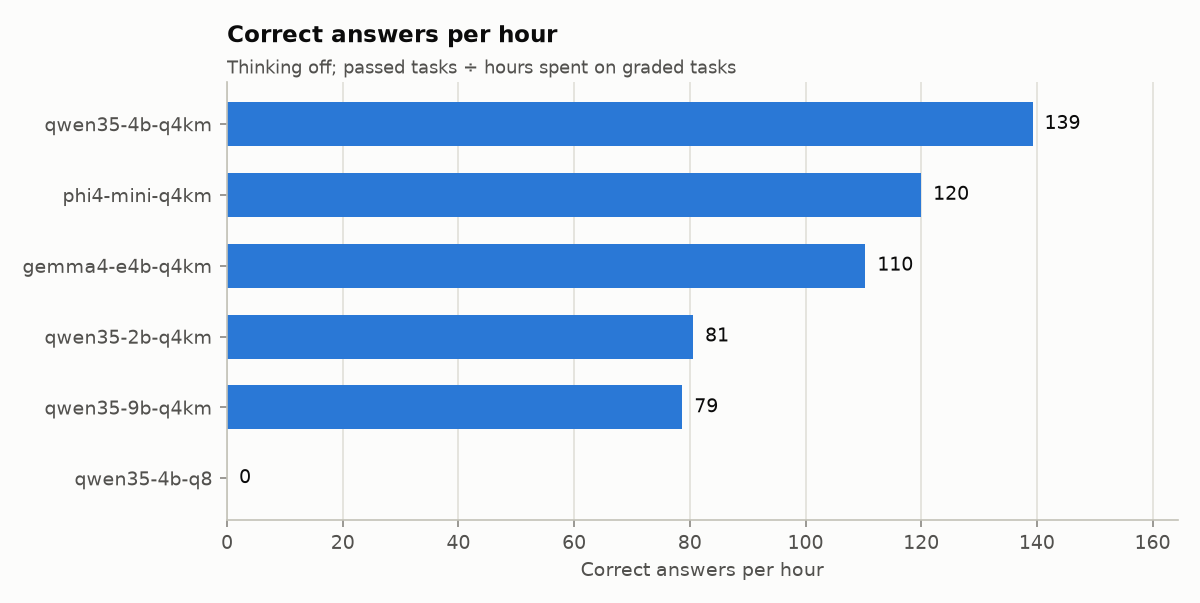
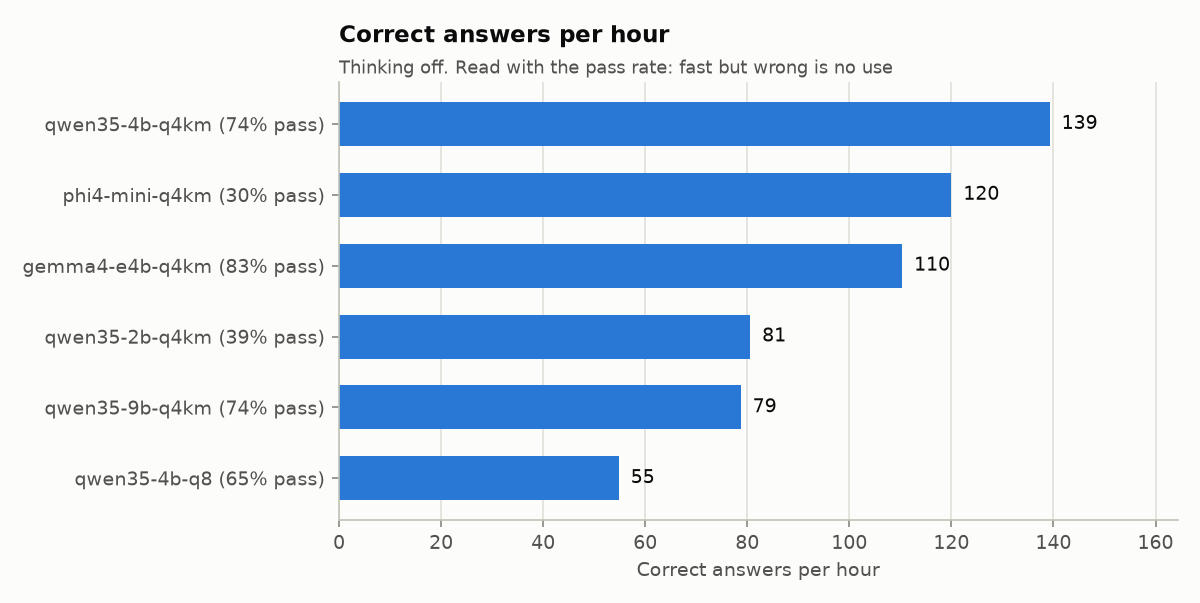
Finish harness: Q8_0 run, needle and bench tested, final report and verdict
- Q8_0 15/23 (below Q4 17/23: one-repeat noise)
- needle: 4K and 16K found; 32K crashed on Vulkan (ErrorDeviceLost);
  failed requests now stored as found: null, not as a miss
- bench: batch-size hypothesis rejected (smooth pp48-pp64 curve)
- report: correct/hour chart labels include pass rate
- lab file v26: provisional laptop verdict in 9.8

diff --git a/src/lab/report.py b/src/lab/report.py
@@ -213,8 +213,9 @@ def _needle_section() -> list[str]:
            "| Machine | Config | Prompt tokens | Depth | Found | Prefill s | Prefill tok/s | Answer |",
            "|---|---|---|---|---|---|---|---|"]
     for r in rows:
-        out.append(f"| {r['machine']} | `{r['config']}` | {r['prompt_tokens']} | {r['depth']:.2f} "
-                   f"| {'yes' if r['found'] else '**no**'} | {_f(r['prefill_ms'] and r['prefill_ms'] / 1000, '.1f')} "
+        found = f"**error**: {r['error'][:60]}" if r.get("error") else "yes" if r["found"] else "**no**"
+        out.append(f"| {r['machine']} | `{r['config']}` | {r['prompt_tokens'] or '~' + str(r['target_tokens'])} "
+                   f"| {r['depth']:.2f} | {found} | {_f(r['prefill_ms'] and r['prefill_ms'] / 1000, '.1f')} "
                    f"| {_f(r['prefill_tok_s'], '.0f')} | `{r['answer'].strip()[:30]}` |")
     return out
 
@@ -246,8 +247,9 @@ def build_report() -> Path:
     off = [s for s in sums if not s.thinking]
     charts = []
     if off:
-        _hbar(CHART_DIR / "correct_per_hour.png", [s.label for s in off], [s.correct_per_hour for s in off],
-              "Correct answers per hour", "Thinking off; passed tasks ÷ hours spent on graded tasks",
+        _hbar(CHART_DIR / "correct_per_hour.png", [f"{s.label} ({s.pass_rate:.0%} pass)" for s in off],
+              [s.correct_per_hour for s in off], "Correct answers per hour",
+              "Thinking off. Read with the pass rate: fast but wrong is no use",
               "Correct answers per hour", lambda v: f"{v:.0f}")
         charts.append(("Correct answers per hour", "correct_per_hour.png"))
         by_time = sorted(off, key=lambda s: s.median("wall_s") or 0)

diff --git a/src/lab/needle.py b/src/lab/needle.py
@@ -76,7 +76,9 @@ def run_needle(cfg: RunConfig, machine: Machine, sizes: list[int], depths: list[
                 prompt = build_prompt(machine.base_url, size, depth)
                 res = client.chat(machine.base_url, prompt, thinking=False, sampling=cfg.sampling,
                                   max_tokens=64, timeout_s=cfg.request_timeout_s)
-                found = CODE.replace("-", "").lower() in res.answer.replace("-", "").replace(" ", "").lower()
+                # None = the request failed (e.g. GPU error): not the same as the model missing the fact
+                found = None if res.error else (
+                    CODE.replace("-", "").lower() in res.answer.replace("-", "").replace(" ", "").lower())
                 append_row({
                     "ts": datetime.now().astimezone().isoformat(timespec="seconds"),
                     "machine": machine.name, "config": cfg.name, "config_hash": cfg.config_hash,
@@ -85,7 +87,7 @@ def run_needle(cfg: RunConfig, machine: Machine, sizes: list[int], depths: list[
                     **res.to_dict(), "server": {**srv.info, "cmd": cmd},
                 }, NEEDLE_FILE)
                 print(f"   {size:>6} tokens (actual {res.prompt_tokens}), depth {depth:.2f}: "
-                      f"{'FOUND' if found else 'MISSED'}  prefill {_s(res.prefill_ms)}  "
+                      f"{'ERROR' if found is None else 'FOUND' if found else 'MISSED'}  prefill {_s(res.prefill_ms)}  "
                       f"({_f(res.prefill_tok_s)} tok/s)  answer {res.answer.strip()[:40]!r}"
                       + (f"  error {res.error}" if res.error else ""), flush=True)
 

diff --git a/src/lab/bench.py b/src/lab/bench.py
@@ -36,7 +36,7 @@ def run_bench(cfg: RunConfig, machine: Machine, pp: str, tg: str, depth: str, re
         test = json.loads(line)
         append_row({"ts": stamp, "machine": machine.name, "config": cfg.name,
                      "backend": cfg.backend.name, **test}, BENCH_FILE)
-        print(f"   {bench_test_name(test):<18} {test.get('avg_ts', 0):8.2f} ± {test.get('stddev_ts', 0):.2f} t/s",
+        print(f"   {bench_test_name(test):<18} {test.get('avg_ts', 0):8.2f} +/- {test.get('stddev_ts', 0):.2f} t/s",
               flush=True)
 
 

diff --git a/LOCAL_LLM_LAB.md b/LOCAL_LLM_LAB.md
@@ -1,7 +1,7 @@
 # Local LLM Lab: Master File
 
-> **Version:** 25 · **Last updated:** 2026-09-24 · **Owner:** Pratham
-> **Current machine:** Laptop (ASUS Zenbook 14) · **Current phase:** 4 (harness: milestones 1-2 built and run; 3-5 next)
+> **Version:** 26 · **Last updated:** 2026-09-25 · **Owner:** Pratham
+> **Current machine:** Laptop (ASUS Zenbook 14) · **Current phase:** 4 done (harness complete); 5 next (3 repeats per task)
 
 This one file holds everything: status, plan, commands, hardware facts, model choices, research notes, and the spec for the test harness. It is written so that a human **or** Claude Code can pick it up and continue with no other context.
 
@@ -56,15 +56,16 @@ You are continuing a learning project on running LLMs locally. Rules:
 - [x] Phase 3 part 1: thread sweeps (CPU and Vulkan) and prefill curves (see 9.4)
 - [x] Phase 3 part 2: size ladder incl. Gemma 4 E4B and Bonsai 27B v1, both engines (see 9.4)
 - [x] Phase 3 part 3: depth test (see 9.4). **Phase 3 complete**
-- [ ] **Phase 4: build the harness in Claude Code** (section 6, Phase 4; spec in section 7)
+- [x] **Phase 4: build the harness in Claude Code** (section 6, Phase 4; spec in section 7): all 5 milestones built and tested
   - [x] API probe: raw JSON of thinking off/on and streaming inspected; fields agreed (9.4a)
   - [x] Milestone 1: `tasks/tasks.yaml`, 24 tasks (Python, JS, SQL, a little C++); `lab selftest` passes
   - [x] Milestone 2: `uv run lab run` (resumable, `results/runs.jsonl`); thinking-off run done (9.4a)
   - [x] Verify the thinking-on path end to end (first attempt stopped: laptop low on memory; second, with apps closed: PASS, all fields correct; 9.4a)
   - [x] Full thinking-on set (8 tasks × 1): 7/8 in 36.4 min vs thinking off 5/8 in 2.3 min (9.4a)
   - [x] Milestone 3: `uv run lab report` (tested on real results)
-  - [ ] Milestone 4 `lab needle` and 5 `lab bench`: **built, not yet run** (GPU was busy). Test: `uv run lab needle configs\qwen35-4b-q4km-vulkan-nothink.yaml` and `uv run lab bench configs\qwen35-4b-q4km-vulkan-nothink.yaml --pp 48,50,51,52,56,64 --tg 0` (also answers the batch-size question in 9.4a)
-  - [x] Model comparison, 6 models, thinking off (9.4b); Qwen3.5-4B Q8_0 unfinished
+  - [x] Milestone 4 `lab needle`: tested at 4K / 16K / 32K (found / found / GPU crash; 9.6)
+  - [x] Milestone 5 `lab bench`: tested; answered the batch-size question (hypothesis rejected; 9.4a)
+  - [x] Model comparison, 7 configs, thinking off, 1 repeat (9.4b), incl. Qwen3.5-4B Q8_0
   - [ ] Pratham: read the task list, add or change tasks (section 8)
 - [x] `hf` downloads complete (9 files in `D:\Code\Inference\models`, sizes in 5.1). Fix that worked: Cloudflare WARP + exact-file-name script (5.2)
 - [x] LM Studio downloads: `google/gemma-4-e4b` (6.33 GB total) and `prism-ml/bonsai-27b` (4.73 GB total). Totals likely include vision/audio files; confirm file names, quant, and that Bonsai is the Qwen3.6-based v1 (see 5.2 command)
@@ -88,7 +89,7 @@ You are continuing a learning project on running LLMs locally. Rules:
 | 1 | LM Studio first tests | Done (Vulkan default, Think off default) |
 | 2 | llama.cpp first run | Done |
 | 3 | Speed tests (llama-bench) | Done |
-| 4 | Build test harness (Claude Code) | In progress (milestones 1-2 done) |
+| 4 | Build test harness (Claude Code) | Done (5 milestones; provisional verdict in 9.8) |
 | 5 | Quality tests | Not started |
 | 6 | Memory / context tests | Not started |
 | 7 | Bigger model vs more bits + laptop verdict | Not started |
@@ -940,7 +941,7 @@ Failures (all checked by hand: real model mistakes, not harness errors):
 Observations:
 - **Explaining a bug ≠ fixing it** (two cases above). Only running the code or query shows it; eyeballing the explanation would have marked both correct.
 - Short tasks are dominated by fixed costs: `if-*` tasks take 2-3 s, of which ~1.3 s is time to first token.
-- **Open question: Vulkan prefill vs exact batch size.** `math-pin-count` (55-token prompt) took 3.95 s to prefill (13.9 tok/s): the server split it 51 + 4 (checkpoint), and the **51-token batch alone took 2.7 s**, far off the Phase 3 curve (32 tokens 0.77 s, 64 tokens 0.64 s). Hypothesis: some non-power-of-two batch sizes hit a slow Vulkan path. Test: `llama-bench -m <4B Q4_K_M> -ngl 99 -t 5 -p 48,50,51,52,56,60,64 -n 0 -r 3` (Vulkan) and the same on CPU.
+- **Open question: Vulkan prefill vs exact batch size.** `math-pin-count` (55-token prompt) took 3.95 s to prefill (13.9 tok/s): the server split it 51 + 4 (checkpoint), and the **51-token batch alone took 2.7 s**, far off the Phase 3 curve (32 tokens 0.77 s, 64 tokens 0.64 s). Hypothesis: some non-power-of-two batch sizes hit a slow Vulkan path. ~~Test: `llama-bench … -p 48,50,51,52,56,60,64`~~ **Tested 2026-09-25 (`lab bench`, Vulkan, 3 repeats): hypothesis rejected.** pp48 81.2, pp50 82.1, **pp51 83.7 t/s (0.61 s)**, pp52 89.9, pp55 91.2, pp56 95.7, pp64 102.1: a smooth curve, no slow sizes. The 2.7 s in the server was a one-off stall.
 
 ### 9.4b Model comparison, thinking off, 24 tasks × 1 (2026-09-24 21:26-22:05, Vulkan)
 
@@ -951,11 +952,12 @@ Observations:
 | Qwen3.5-9B Q4_K_M | 17/23 (74%) | 79 | 18.9 | 9.1 | 5.97 | 512 MiB |
 | Qwen3.5-2B Q4_K_M | 9/23 (39%) | 81 | 7.1 | 26.8 | 1.86 | 192 MiB |
 | Phi-4-mini Q4_K_M (greedy) | 7/23 (30%) | 120 | 8.7 | 17.6 | 4.88 | **2,048 MiB** |
-| Qwen3.5-4B Q8_0 | stopped after 1 task (Pratham had to leave) | | | 10.7 | 5.45 | 512 MiB |
+| Qwen3.5-4B Q8_0 | 15/23 (65%) | 55 | 17.0 | 11.4 | 5.45 | 512 MiB |
 
 - KV per token confirmed for three designs: Qwen3.5 hybrid 32 KB, Phi-4-mini 128 KB (as predicted in section 4), Gemma 4 E4B ~2.5 KB (likely sliding-window attention; not yet confirmed from its log).
 - Phi-4-mini answers are coherent (not the Vulkan garbage bug); its failures are real logic errors. Its 120 correct/hour comes from speed, not accuracy: **judge pass rate first, then correct/hour.**
 - The 9B scored the same as the 4B at 1.5× the time: no gain on these tasks.
+- **Q8_0 scored lower than Q4_K_M (15 vs 17)**, which 8-bit should not do: it failed 3 tasks Q4 passed and passed 1 Q4 failed (all 4 failures checked: real errors, incl. `js-deep-merge` looping until the 4,096-token limit, 6 min). With 1 repeat, **±2-3 tasks is noise**; this is also why Gemma's 2-task lead is not yet proof. Q8 is also slower (11.4 vs 14.2 tok/s, 5.45 vs 3.69 GiB).
 
 **Provisional verdict (n = 1 repeat; Gemma's lead is only 2 tasks, so Phase 5's 3 repeats must confirm):**
 - **Default for coding: Gemma 4 E4B Q4_K_M, thinking off.**
@@ -963,7 +965,7 @@ Observations:
 - **Retry for a failed bug fix: Qwen3.5-4B, thinking on** (fixed 2 of 2 failed bug tasks, ~6 min each).
 - **Not recommended:** Phi-4-mini, Qwen3.5-2B, Qwen3.5-9B.
 
-To finish the Q8_0 run later (resumes, skips done tasks): `uv run lab run configs\qwen35-4b-q8-vulkan-nothink.yaml --repeats 1`
+Q8_0 finished 2026-09-25 (resumed after the stop; 23 remaining tasks).
 
 ### 9.5 Phase 5: quality (from `results/report.md`)
 | Config | Pass rate | Median time/task | Correct/hour | Notes |
@@ -987,7 +989,19 @@ Quality breaking point: ___
 | 4B Q4_K_M | 32768 | | | |
 | 4B Q4_K_M | 65536 | | | |
 
-Swap point (9B Q4_K_M): -c = ___ · Needle 4K/16K/32K: ___ / ___ / ___ · 16K prefill time: ___
+Swap point (9B Q4_K_M): -c = ___ · Needle 4K/16K/32K: **found / found / GPU crash** · 16K prefill time: **178 s**
+
+**Needle test 2026-09-25** (`lab needle`, Qwen3.5-4B Q4_K_M, Vulkan, `-c 33792`, KV 1,056 MiB, fact at depth 0.5):
+
+| Target | Actual prompt tokens | Found? | Prefill | Prefill tok/s |
+|---|---|---|---|---|
+| 4K | 4,042 | yes | 19.6 s | 206 |
+| 16K | 16,377 | yes | **178 s** | 92 |
+| 32K | 32,746 | **crash**: `vk::Device::getFenceStatus: ErrorDeviceLost` after 5 min 44 s, at ~22.5-24.5K tokens processed | – | – |
+
+- Prefill slows with depth: each 2,048-token slice took 5.6 s at the start, 23 s at 10K, 45-52 s at 20-22K (attention compares each new token with all earlier ones).
+- **Laptop limit on Vulkan: keep prompts under ~16K tokens** (16K already costs 3 min before the first word). Cause of the crash not confirmed: no Windows GPU-reset event (4101) was logged. Untested: the same on the CPU backend (no GPU watchdog, but ~5× slower prefill).
+- Fixed in the harness: a crashed request is now stored as `found: null` (error), not as a miss.
 
 ### 9.7 Phase 7: bigger vs more bits
 | Config | Size GB | Pass rate | Correct/hour | tg128 |
@@ -999,10 +1013,11 @@ Swap point (9B Q4_K_M): -c = ___ · Needle 4K/16K/32K: ___ / ___ / ___ · 16K pr
 | Gemma 4 E4B Q4_K_M | | | | |
 
 ### 9.8 Laptop verdict
-- Daily model: ___ (why: ___)
-- Quick-task model: ___
-- Thinking: on for ___, off for ___
-- Breaking points: speed ___ · quality ___ · memory ___
+**Provisional (2026-09-25, 1 repeat per task; Phase 5 must confirm):**
+- Daily model: **Gemma 4 E4B Q4_K_M, thinking off** (why: most correct, 19/23; same time per task as Qwen 4B; tiny KV cache, 40 MiB at 16K)
+- Quick-task / low-memory model: **Qwen3.5-4B Q4_K_M, thinking off** (17/23, most correct answers per hour, 3.7 GiB)
+- Thinking: **off by default; on only to retry a failed bug fix** (Qwen 4B fixed 2 of 2 failed bug tasks, ~6-10 min each)
+- Breaking points: speed **Bonsai 27B / 9B too slow for the gain** · quality **2B and Phi-4-mini too weak (≤ 39%)** · memory/context **~16K-token prompts on Vulkan (32K crashed)**
 
 ---
 
@@ -1191,3 +1206,4 @@ Claude/GPT also generate one token at a time (plus internal planning). Differenc
 | 2026-09-24 | Claude Code | v23: first thinking-on run stopped (laptop low on memory, nothing saved); rerun with apps closed verified the thinking path end to end (`math-pin-count`: PASS, 1,417 thinking tokens, first answer token at 105 s, 3.7× slower than thinking off); batch-size hypothesis weakened |
 | 2026-09-24 | Claude Code | v24: full thinking-on set (8 tasks × 1): 7/8 in 36.4 min vs thinking off 5/8 in 2.3 min → 12 vs 132 correct answers per hour; thinking fixed the two failed bug tasks at 6-10 min each |
 | 2026-09-24 | Claude Code | v25: milestones 3-5 built (`lab report` tested; `lab needle`, `lab bench` not yet run); 6-model comparison (9.4b): Gemma 4 E4B 19/23, Qwen 4B 17/23 (139 correct/h), 9B 17/23, 2B 9/23, Phi-4-mini 7/23; provisional verdict; Q8_0 run stopped early |
+| 2026-09-25 | Claude Code | v26: harness complete. Q8_0 finished (15/23: lower than Q4 → 1-repeat noise is ±2-3 tasks); `lab needle` tested (4K/16K found, 16K prefill 178 s, 32K Vulkan `ErrorDeviceLost`); `lab bench` tested (batch-size hypothesis rejected); needle errors now stored as `found: null`; report chart labels show pass rate; provisional laptop verdict in 9.8 |

diff --git a/results/report.md b/results/report.md
@@ -1,6 +1,6 @@
 # Harness report
 
-Generated 2026-09-24 22:03 from `runs.jsonl` (129 current runs; 24 tasks in `tasks.yaml`). Sorted by correct answers per hour.
+Generated 2026-09-25 13:24 from `runs.jsonl` (152 current runs; 24 tasks in `tasks.yaml`). Sorted by correct answers per hour.
 
 - **Correct answers per hour** = passed auto-graded runs ÷ hours of wall time spent on them.
 - Thinking-on configs run only the tasks marked `thinking: on/both`, so compare them with care.
@@ -15,8 +15,8 @@ Generated 2026-09-24 22:03 from `runs.jsonl` (129 current runs; 24 tasks in `tas
 | `gemma4-e4b-q4km-vulkan-nothink` | Q4_K_M | 5.34 | off | 24 | 19/23 | **83%** | **110** | 12.1 | 1.1 | 13.9 | 343 | 5.69 | 1 | 0 |
 | `qwen35-2b-q4km-vulkan-nothink` | Q4_K_M | 1.28 | off | 24 | 9/23 | **39%** | **81** | 7.1 | 0.6 | 26.8 | 434 | 1.86 | 1 | 1 |
 | `qwen35-9b-q4km-vulkan-nothink` | Q4_K_M | 5.68 | off | 24 | 17/23 | **74%** | **79** | 18.9 | 2.0 | 9.1 | 268 | 5.97 | 1 | 0 |
+| `qwen35-4b-q8-vulkan-nothink` | Q8_0 | 4.48 | off | 24 | 15/23 | **65%** | **55** | 17.0 | 1.4 | 11.4 | 448 | 5.45 | 1 | 1 |
 | `qwen35-4b-q4km-vulkan-think` | Q4_K_M | 2.74 | on | 8 | 7/8 | **88%** | **12** | 215.6 | 204.0 | 14.0 | 3783 | 3.69 | 0 | 0 |
-| `qwen35-4b-q8-vulkan-nothink` | Q8_0 | 4.48 | off | 1 | 0/1 | **0%** | **0** | 54.1 | 2.0 | 10.7 | 556 | 5.45 | 0 | 0 |
 
 ## Pass rate by category
 
@@ -27,39 +27,39 @@ Generated 2026-09-24 22:03 from `runs.jsonl` (129 current runs; 24 tasks in `tas
 | `gemma4-e4b-q4km` | 3/6 | 4/4 | 4/4 | 0/1 | 3/3 | 3/3 | 2/2 |
 | `qwen35-2b-q4km` | 1/6 | 2/4 | 1/4 | 0/1 | 3/3 | 1/3 | 1/2 |
 | `qwen35-9b-q4km` | 3/6 | 4/4 | 3/4 | 0/1 | 3/3 | 2/3 | 2/2 |
+| `qwen35-4b-q8` | 2/6 | 2/4 | 3/4 | 0/1 | 3/3 | 3/3 | 2/2 |
 | `qwen35-4b-q4km-think` | – | 4/4 | – | 0/1 | 3/3 | – | – |
-| `qwen35-4b-q8` | 0/1 | – | – | – | – | – | – |
 
 ## Per task
 
 ✓ = passed every repeat, ✗ = failed every repeat, `p/n` = mixed, M = needs manual grading, blank = not run.
 
-| Task | Category | `qwen35-4b-q4km` | `phi4-mini-q4km` | `gemma4-e4b-q4km` | `qwen35-2b-q4km` | `qwen35-9b-q4km` | `qwen35-4b-q4km-think` | `qwen35-4b-q8` |
+| Task | Category | `qwen35-4b-q4km` | `phi4-mini-q4km` | `gemma4-e4b-q4km` | `qwen35-2b-q4km` | `qwen35-9b-q4km` | `qwen35-4b-q8` | `qwen35-4b-q4km-think` |
 |---|---|---|---|---|---|---|---|---|
-| `py-parse-date` | small function | ✓ | ✓ | ✓ | ✗ | ✓ |  | ✗ |
-| `py-normalise-order` | small function | ✓ | ✗ | ✗ | ✗ | ✓ |  |  |
-| `py-merge-slots` | small function | ✓ | ✗ | ✓ | ✓ | ✓ |  |  |
-| `js-parse-query` | small function | ✓ | ✗ | ✓ | ✗ | ✗ |  |  |
-| `js-deep-merge` | small function | ✗ | ✗ | ✗ | ✗ | ✗ |  |  |
-| `cpp-parse-duration` | small function | ✗ | ✗ | ✗ | ✗ | ✗ |  |  |
-| `bug-py-paginate` | bug finding | ✗ | ✗ | ✓ | ✗ | ✓ | ✓ |  |
-| `bug-py-split-pence` | bug finding | ✓ | ✓ | ✓ | ✓ | ✓ | ✓ |  |
-| `bug-js-top-scores` | bug finding | ✓ | ✓ | ✓ | ✓ | ✓ | ✓ |  |
-| `bug-sql-left-join` | bug finding | ✗ | ✗ | ✓ | ✗ | ✓ | ✓ |  |
-| `sql-top-customers` | sql regex | ✓ | ✓ | ✓ | ✓ | ✓ |  |  |
-| `sql-monthly-running-total` | sql regex | ✓ | ✗ | ✓ | ✗ | ✓ |  |  |
-| `sql-latest-status` | sql regex | ✓ | ✗ | ✓ | ✗ | ✗ |  |  |
-| `py-regex-log-line` | sql regex | ✓ | ✗ | ✓ | ✗ | ✓ |  |  |
-| `explain-js-event-loop` | explain code | ✗ | ✗ | ✗ | ✗ | ✗ | ✗ |  |
-| `explain-py-rate-cache` | explain code | M | M | M | M | M |  |  |
-| `math-batch-job` | maths logic | ✓ | ✓ | ✓ | ✓ | ✓ | ✓ |  |
-| `math-sla-downtime` | maths logic | ✓ | ✓ | ✓ | ✓ | ✓ | ✓ |  |
-| `math-pin-count` | maths logic | ✓ | ✗ | ✓ | ✓ | ✓ | ✓ |  |
-| `if-three-bullets` | instruction following | ✗ | ✗ | ✓ | ✗ | ✗ |  |  |
-| `if-json-extract` | instruction following | ✓ | ✗ | ✓ | ✗ | ✓ |  |  |
-| `if-one-sentence` | instruction following | ✓ | ✓ | ✓ | ✓ | ✓ |  |  |
-| `sum-incident` | summarise | ✓ | ✗ | ✓ | ✓ | ✓ |  |  |
-| `sum-release-notes` | summarise | ✓ | ✗ | ✓ | ✗ | ✓ |  |  |
+| `py-parse-date` | small function | ✓ | ✓ | ✓ | ✗ | ✓ | ✗ |  |
+| `py-normalise-order` | small function | ✓ | ✗ | ✗ | ✗ | ✓ | ✗ |  |
+| `py-merge-slots` | small function | ✓ | ✗ | ✓ | ✓ | ✓ | ✓ |  |
+| `js-parse-query` | small function | ✓ | ✗ | ✓ | ✗ | ✗ | ✓ |  |
+| `js-deep-merge` | small function | ✗ | ✗ | ✗ | ✗ | ✗ | ✗ |  |
+| `cpp-parse-duration` | small function | ✗ | ✗ | ✗ | ✗ | ✗ | ✗ |  |
+| `bug-py-paginate` | bug finding | ✗ | ✗ | ✓ | ✗ | ✓ | ✗ | ✓ |
+| `bug-py-split-pence` | bug finding | ✓ | ✓ | ✓ | ✓ | ✓ | ✓ | ✓ |
+| `bug-js-top-scores` | bug finding | ✓ | ✓ | ✓ | ✓ | ✓ | ✓ | ✓ |
+| `bug-sql-left-join` | bug finding | ✗ | ✗ | ✓ | ✗ | ✓ | ✗ | ✓ |
+| `sql-top-customers` | sql regex | ✓ | ✓ | ✓ | ✓ | ✓ | ✓ |  |
+| `sql-monthly-running-total` | sql regex | ✓ | ✗ | ✓ | ✗ | ✓ | ✓ |  |
+| `sql-latest-status` | sql regex | ✓ | ✗ | ✓ | ✗ | ✗ | ✗ |  |
+| `py-regex-log-line` | sql regex | ✓ | ✗ | ✓ | ✗ | ✓ | ✓ |  |
+| `explain-js-event-loop` | explain code | ✗ | ✗ | ✗ | ✗ | ✗ | ✗ | ✗ |
+| `explain-py-rate-cache` | explain code | M | M | M | M | M | M |  |
+| `math-batch-job` | maths logic | ✓ | ✓ | ✓ | ✓ | ✓ | ✓ | ✓ |
+| `math-sla-downtime` | maths logic | ✓ | ✓ | ✓ | ✓ | ✓ | ✓ | ✓ |
+| `math-pin-count` | maths logic | ✓ | ✗ | ✓ | ✓ | ✓ | ✓ | ✓ |
+| `if-three-bullets` | instruction following | ✗ | ✗ | ✓ | ✗ | ✗ | ✓ |  |
+| `if-json-extract` | instruction following | ✓ | ✗ | ✓ | ✗ | ✓ | ✓ |  |
+| `if-one-sentence` | instruction following | ✓ | ✓ | ✓ | ✓ | ✓ | ✓ |  |
+| `sum-incident` | summarise | ✓ | ✗ | ✓ | ✓ | ✓ | ✓ |  |
+| `sum-release-notes` | summarise | ✓ | ✗ | ✓ | ✗ | ✓ | ✓ |  |
 
 ## Charts
 
@@ -71,3 +71,23 @@ Generated 2026-09-24 22:03 from `runs.jsonl` (129 current runs; 24 tasks in `tas
 
 ![Qwen3.5-4B quant ladder](charts/quant_ladder_4b.png)
 
+
+## Needle in a haystack (`lab needle`)
+
+| Machine | Config | Prompt tokens | Depth | Found | Prefill s | Prefill tok/s | Answer |
+|---|---|---|---|---|---|---|---|
+| laptop | `qwen35-4b-q4km-vulkan-nothink` | 4042 | 0.50 | yes | 19.6 | 206 | `7481-QX` |
+| laptop | `qwen35-4b-q4km-vulkan-nothink` | 16377 | 0.50 | yes | 178.3 | 92 | `7481-QX` |
+| laptop | `qwen35-4b-q4km-vulkan-nothink` | ~32768 | 0.50 | **error**: {"code": 500, "message": "decode() failed: vk::Device::getFe | – | – | `` |
+
+## llama-bench (`lab bench`)
+
+| Date | Machine | Config | Build | Test | t/s | ± |
+|---|---|---|---|---|---|---|
+| 2026-09-25T13:23 | laptop | `qwen35-4b-q4km-vulkan-nothink` | 11157 | pp48 | 81.19 | 3.06 |
+| 2026-09-25T13:23 | laptop | `qwen35-4b-q4km-vulkan-nothink` | 11157 | pp50 | 82.08 | 0.54 |
+| 2026-09-25T13:23 | laptop | `qwen35-4b-q4km-vulkan-nothink` | 11157 | pp51 | 83.69 | 1.01 |
+| 2026-09-25T13:23 | laptop | `qwen35-4b-q4km-vulkan-nothink` | 11157 | pp52 | 89.90 | 0.53 |
+| 2026-09-25T13:23 | laptop | `qwen35-4b-q4km-vulkan-nothink` | 11157 | pp55 | 91.15 | 2.30 |
+| 2026-09-25T13:23 | laptop | `qwen35-4b-q4km-vulkan-nothink` | 11157 | pp56 | 95.66 | 1.08 |
+| 2026-09-25T13:23 | laptop | `qwen35-4b-q4km-vulkan-nothink` | 11157 | pp64 | 102.13 | 1.46 |
